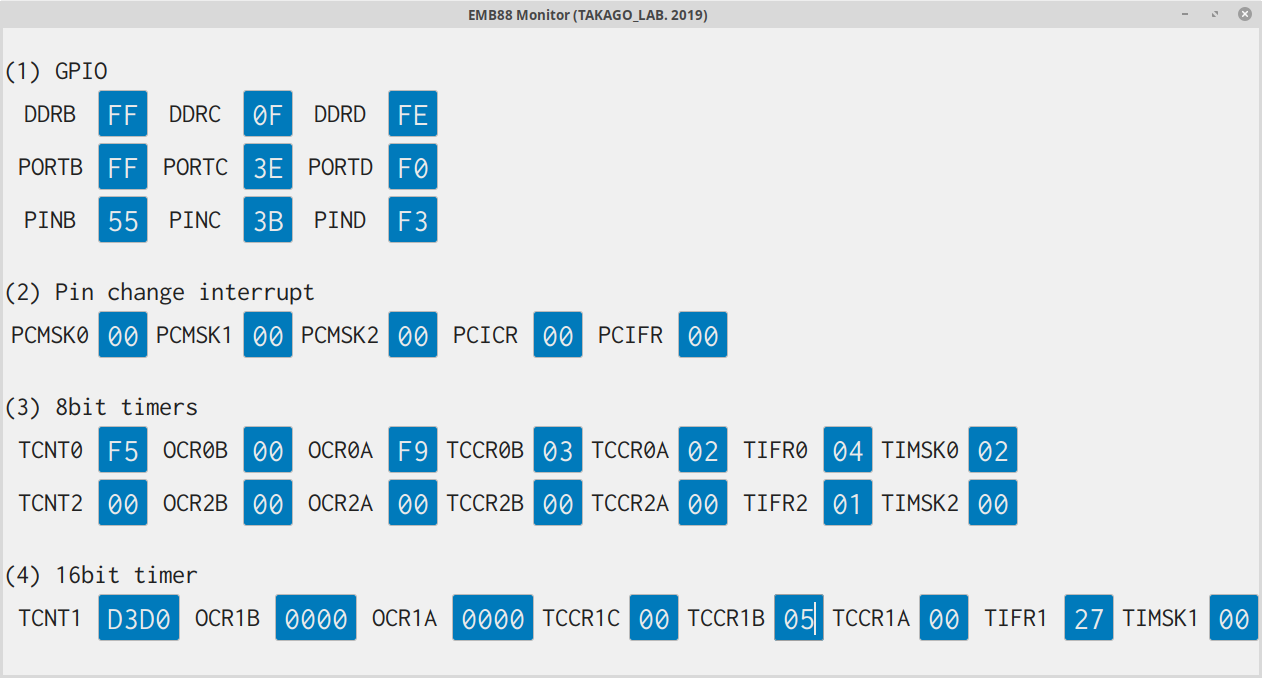
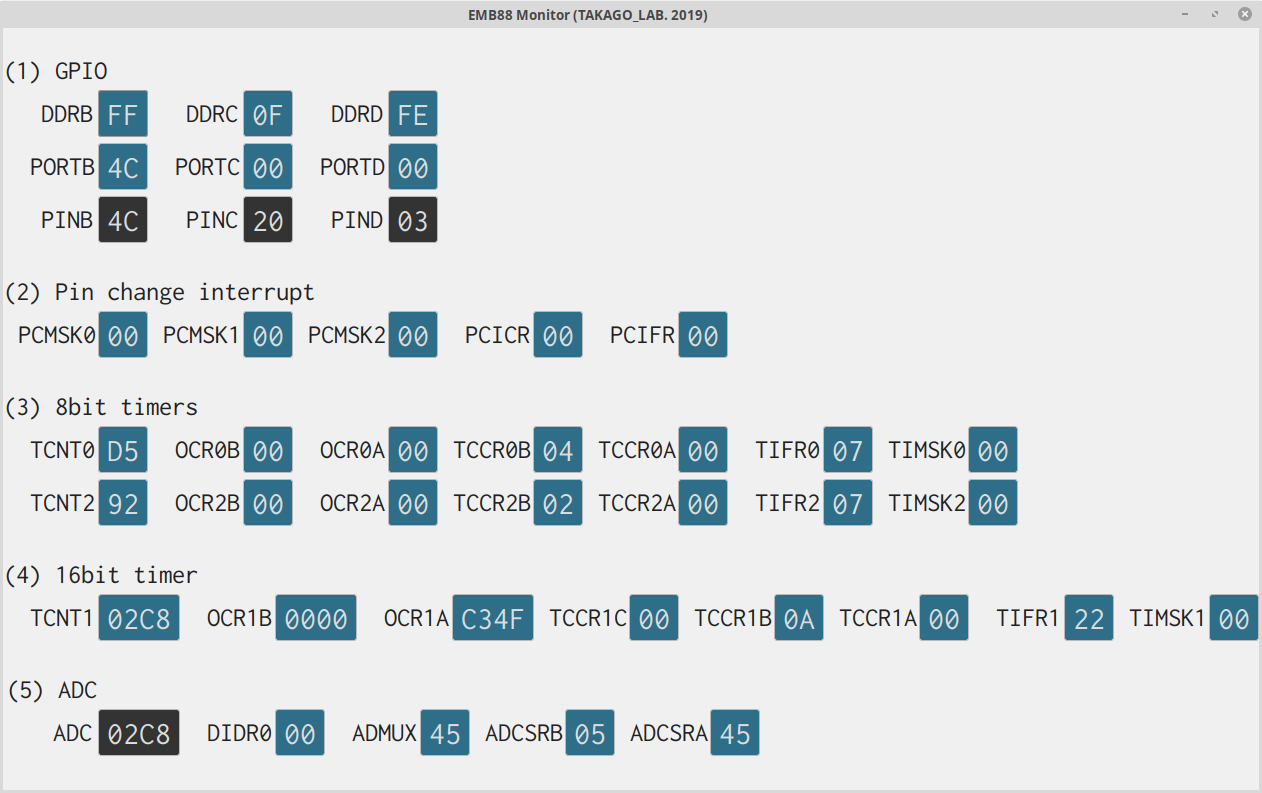
レイアウトの調整

Changed region(s): [[0.0, 0.0619, 1.0, 0.9602], [0.3708, 0.0, 0.5563, 0.031], [0.958, 0.0, 0.9889, 0.031]]

diff --git a/emb88-monitor.py b/emb88-monitor.py
@@ -15,7 +15,7 @@ import sys
 import time
 
 update_interval_ms=50
-col=[Gdk.Color(0, 0x7a*256,0xbb *256), Gdk.Color(60000, 60000, 60000), Gdk.Color(20000, 20000, 20000)]
+col=[Gdk.color_parse('#2E6E88'),Gdk.color_parse('#DDDDDD'),Gdk.color_parse('#333333')]
 
 class EntryWindow(Gtk.Window):
 
@@ -26,22 +26,22 @@ class EntryWindow(Gtk.Window):
 
         reg_names=[
             [{'name':'\n(1) GPIO'}],
-            [{'name':'DDRD','adr':[0x2a],'wr':True},
+            [{'name':'DDRB','adr':[0x24],'wr':True},
             {'name':'DDRC','adr':[0x27],'wr':True},
-            {'name':'DDRB','adr':[0x24],'wr':True},
+            {'name':'DDRD','adr':[0x2a],'wr':True},
             ],
-            [{'name':'PORTD','adr':[0x2b],'wr':True},
+            [{'name':'PORTB','adr':[0x25],'wr':True},
              {'name':'PORTC','adr':[0x28],'wr':True},
-             {'name':'PORTB','adr':[0x25],'wr':True},
+             {'name':'PORTD','adr':[0x2b],'wr':True},
             ],
-            [{'name':'PIND','adr':[0x29],'wr':False},
+            [{'name':'PINB','adr':[0x23],'wr':False},
              {'name':'PINC','adr':[0x26],'wr':False},
-             {'name':'PINB','adr':[0x23],'wr':False},
+             {'name':'PIND','adr':[0x29],'wr':False},
             ],
             [{'name':'\n(2) Pin change interrupt'}],
-            [{'name':'PCMSK2','adr':[0x6d],'wr':True},
+            [{'name':'PCMSK0','adr':[0x6b],'wr':True},
              {'name':'PCMSK1','adr':[0x6c],'wr':True},
-             {'name':'PCMSK0','adr':[0x6b],'wr':True},
+             {'name':'PCMSK2','adr':[0x6d],'wr':True},
              {'name':'PCICR','adr':[0x68],'wr':True},
              {'name':'PCIFR','adr':[0x3b],'wr':True},
             ],
@@ -208,6 +208,7 @@ sdev = serial.Serial('/dev/emb88',38400, timeout=0.05)
 time.sleep(0.1)
 # buffer flush
 sdev.reset_input_buffer()
+time.sleep(0.1)
 sdev.reset_output_buffer()
 time.sleep(0.1)
 Gtk.main()
